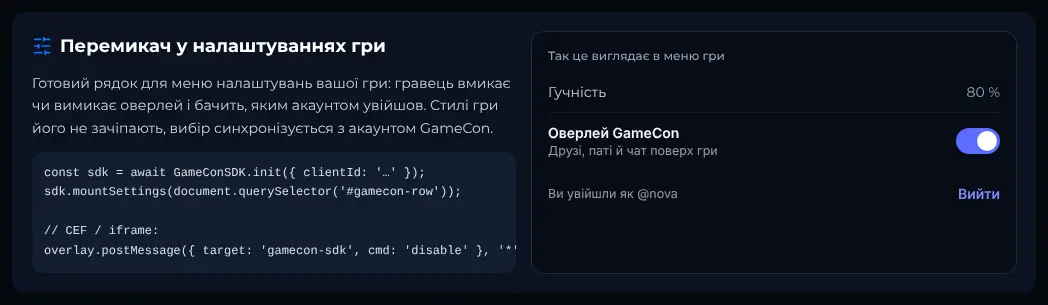
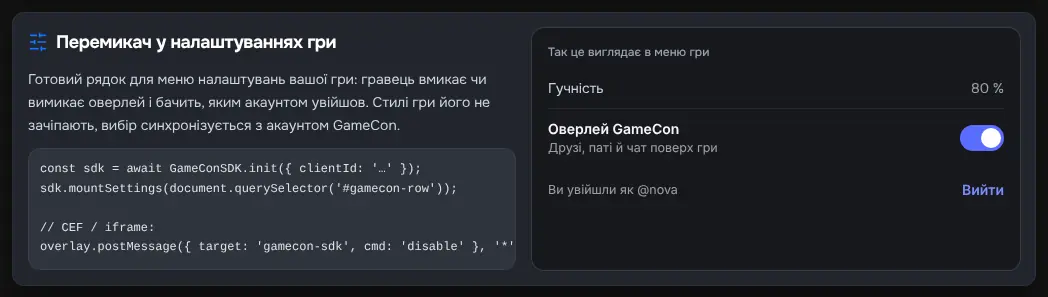
ПК: дзвінки в повідомленнях — голос, відео, демонстрація екрана (LiveKit), вхідний дзвінок у відкритому чаті «Прийняти / Відхилити»; довідка: ще 4 кадри, зйомка з довшими очікуваннями
Claude-Session: https://claude.ai/code/session_01HanRrFN25zmwZ8V14mpsTd

diff --git a/pc/src/renderer/src/components/DirectCall.tsx b/pc/src/renderer/src/components/DirectCall.tsx
@@ -1,0 +1,196 @@
+import { Mic, MicOff, MonitorUp, Phone, PhoneOff, Video, VideoOff } from 'lucide-react';
+import { type Participant, Room, RoomEvent, Track, type RemoteTrack } from 'livekit-client';
+import { useCallback, useEffect, useRef, useState } from 'react';
+import { useToast } from '@/components/kit';
+import { Avatar } from '@/components/ui';
+import { api, type User } from '@/lib/api';
+
+export type CallState = { id: number; status: string; started_by: number; caller: User | null; joined?: User[]; invited?: number[] } | null;
+
+const uid = (p: Participant): number => Number(p.identity.replace(/^u/, '')) || 0;
+
+/** Стан дзвінка в бесіді: опитує сервер, щоб показати вхідний дзвінок у відкритому чаті. */
+export function useConversationCall(conversationId: number): { call: CallState; refresh: () => Promise<void> } {
+    const [call, setCall] = useState<CallState>(null);
+    const refresh = useCallback(async () => {
+        const r = await api<{ call: CallState }>('GET', `/api/v1/messages/${conversationId}/call`).catch(() => null);
+        if (r) setCall(r.call);
+    }, [conversationId]);
+    useEffect(() => {
+        void refresh();
+        const t = window.setInterval(() => void refresh(), 4000);
+        return () => window.clearInterval(t);
+    }, [refresh]);
+    return { call, refresh };
+}
+
+/**
+ * Дзвінок 1:1 чи груповий у бесіді (LiveKit): голос, камера, демонстрація екрана, хто говорить.
+ * mode «start» — почати (або приєднатися до вже живого), «join» — прийняти вхідний.
+ */
+export function DirectCall({
+    conversationId,
+    callId,
+    title,
+    peer,
+    mode,
+    video = false,
+    onEnd,
+}: {
+    conversationId: number;
+    callId?: number;
+    title: string;
+    peer?: User | null;
+    mode: 'start' | 'join';
+    video?: boolean;
+    onEnd: () => void;
+}) {
+    const toast = useToast();
+    const room = useRef<Room | null>(null);
+    const media = useRef<HTMLDivElement>(null);
+    const [status, setStatus] = useState<'connecting' | 'live'>('connecting');
+    const [joinedCall, setJoinedCall] = useState<number | null>(callId ?? null);
+    const [mic, setMic] = useState(true);
+    const [cam, setCam] = useState(false);
+    const [screen, setScreen] = useState(false);
+    const [speaking, setSpeaking] = useState<number[]>([]);
+    const [others, setOthers] = useState(0);
+    const [videos, setVideos] = useState(0);
+    const [started, setStarted] = useState<number | null>(null);
+    const [, tick] = useState(0);
+
+    useEffect(() => {
+        let alive = true;
+        const r = new Room({ adaptiveStream: true, dynacast: true });
+        room.current = r;
+        const count = (): void => setOthers(r.remoteParticipants.size);
+        r.on(RoomEvent.ParticipantConnected, () => {
+            count();
+            setStarted((s) => s ?? Date.now());
+        });
+        r.on(RoomEvent.ParticipantDisconnected, count);
+        r.on(RoomEvent.ActiveSpeakersChanged, (ps: Participant[]) => setSpeaking(ps.map(uid)));
+        r.on(RoomEvent.TrackSubscribed, (track: RemoteTrack) => {
+            const el = track.attach();
+            if (track.kind === Track.Kind.Video) {
+                el.className = 'h-full w-full rounded-2xl bg-black object-contain';
+                setVideos((v) => v + 1);
+            } else el.className = 'hidden';
+            media.current?.appendChild(el);
+        });
+        r.on(RoomEvent.TrackUnsubscribed, (track: RemoteTrack) => {
+            track.detach().forEach((el) => el.remove());
+            if (track.kind === Track.Kind.Video) setVideos((v) => Math.max(0, v - 1));
+        });
+        void (async () => {
+            try {
+                const access =
+                    mode === 'join' && callId
+                        ? await api<{ url: string; token: string; call: { id: number } }>('POST', `/api/v1/calls/${callId}/join`)
+                        : await api<{ url: string; token: string; call: { id: number } }>('POST', `/api/v1/messages/${conversationId}/call`);
+                if (!alive) return;
+                setJoinedCall(access.call.id);
+                await r.connect(access.url, access.token, { autoSubscribe: true });
+                await r.localParticipant.setMicrophoneEnabled(true).catch(() => setMic(false));
+                if (video)
+                    await r.localParticipant.setCameraEnabled(true).then(
+                        () => setCam(true),
+                        () => undefined,
+                    );
+                setStatus('live');
+                count();
+                if (r.remoteParticipants.size > 0) setStarted(Date.now());
+            } catch (e) {
+                if (alive) {
+                    toast((e as Error).message, 'error');
+                    onEnd();
+                }
+            }
+        })();
+        const t = window.setInterval(() => tick((x) => x + 1), 1000);
+        return () => {
+            alive = false;
+            window.clearInterval(t);
+            void r.disconnect();
+        };
+        // eslint-disable-next-line react-hooks/exhaustive-deps
+    }, []);
+
+    const hangup = async (): Promise<void> => {
+        await room.current?.disconnect();
+        if (joinedCall) await api('POST', `/api/v1/calls/${joinedCall}/leave`).catch(() => undefined);
+        onEnd();
+    };
+    const toggle = async (kind: 'mic' | 'cam' | 'screen'): Promise<void> => {
+        const lp = room.current?.localParticipant;
+        if (!lp) return;
+        try {
+            if (kind === 'mic') {
+                await lp.setMicrophoneEnabled(!mic);
+                setMic(!mic);
+            } else if (kind === 'cam') {
+                await lp.setCameraEnabled(!cam);
+                setCam(!cam);
+            } else {
+                await lp.setScreenShareEnabled(!screen, { audio: true });
+                setScreen(!screen);
+            }
+        } catch (e) {
+            toast((e as Error).message, 'error');
+        }
+    };
+    const secs = started ? Math.floor((Date.now() - started) / 1000) : 0;
+    const clock = `${Math.floor(secs / 60)}:${String(secs % 60).padStart(2, '0')}`;
+    const btn = (on: boolean, danger = false): string =>
+        `grid size-12 place-items-center rounded-full transition ${danger ? 'bg-rose-500 hover:bg-rose-400' : on ? 'bg-white/15 hover:bg-white/25' : 'bg-white/5 text-white/50 ring-1 ring-white/15 hover:bg-white/10'}`;
+    return (
+        <div className="absolute inset-0 z-30 flex flex-col bg-[#0b0e16]/95 backdrop-blur-xl">
+            <div className="relative min-h-0 flex-1 p-4">
+                <div ref={media} className={`grid h-full gap-3 ${videos > 1 ? 'grid-cols-2' : 'grid-cols-1'} ${videos ? '' : 'hidden'}`} />
+                {!videos && (
+                    <div className="grid h-full place-items-center text-center">
+                        <div>
+                            <div className={`mx-auto w-fit rounded-full p-1.5 transition ${peer && speaking.includes(peer.id) ? 'ring-4 ring-emerald-400/70' : 'ring-2 ring-white/10'}`}>
+                                <Avatar user={peer ?? { name: title }} size={112} />
+                            </div>
+                            <p className="mt-4 text-2xl font-bold">{title}</p>
+                            <p className="mt-1 text-sm text-white/55">{status === 'connecting' ? 'Підключаємося…' : others === 0 ? 'Дзвонимо…' : clock}</p>
+                        </div>
+                    </div>
+                )}
+            </div>
+            <div className="flex items-center justify-center gap-3 pb-6">
+                <button type="button" title={mic ? 'Вимкнути мікрофон' : 'Увімкнути мікрофон'} onClick={() => void toggle('mic')} className={btn(mic)}>
+                    {mic ? <Mic size={20} /> : <MicOff size={20} />}
+                </button>
+                <button type="button" title={cam ? 'Вимкнути камеру' : 'Увімкнути камеру'} onClick={() => void toggle('cam')} className={btn(cam)}>
+                    {cam ? <Video size={20} /> : <VideoOff size={20} />}
+                </button>
+                <button type="button" title="Показати екран" onClick={() => void toggle('screen')} className={btn(screen)}>
+                    <MonitorUp size={20} />
+                </button>
+                <button type="button" title="Завершити" onClick={() => void hangup()} className={btn(true, true)}>
+                    <PhoneOff size={20} />
+                </button>
+            </div>
+        </div>
+    );
+}
+
+/** Смуга вхідного дзвінка над чатом: «Прийняти» / «Відхилити». */
+export function IncomingCall({ call, onAccept, onDecline }: { call: NonNullable<CallState>; onAccept: () => void; onDecline: () => void }) {
+    return (
+        <div className="flex items-center gap-3 border-b border-emerald-400/20 bg-emerald-400/10 px-4 py-2.5">
+            {call.caller && <Avatar user={call.caller} size={32} />}
+            <span className="flex-1 text-sm">
+                <b>{call.caller?.name ?? 'Хтось'}</b> дзвонить…
+            </span>
+            <button type="button" onClick={onAccept} className="flex h-9 items-center gap-1.5 rounded-xl bg-emerald-500 px-3 text-sm font-semibold hover:bg-emerald-400">
+                <Phone size={15} /> Прийняти
+            </button>
+            <button type="button" onClick={onDecline} className="flex h-9 items-center gap-1.5 rounded-xl bg-rose-500/80 px-3 text-sm font-semibold hover:bg-rose-500">
+                <PhoneOff size={15} /> Відхилити
+            </button>
+        </div>
+    );
+}

diff --git a/pc/src/renderer/src/pages/messages/MessagesPage.tsx b/pc/src/renderer/src/pages/messages/MessagesPage.tsx
@@ -1,6 +1,7 @@
-import { BellOff, Check, CornerUpLeft, Download, FileText, ImagePlus, MessageSquarePlus, Pencil, Pin, Search, SendHorizontal, Smile, Sticker, Trash2, X } from 'lucide-react';
+import { BellOff, Check, Phone, Video, CornerUpLeft, Download, FileText, ImagePlus, MessageSquarePlus, Pencil, Pin, Search, SendHorizontal, Smile, Sticker, Trash2, X } from 'lucide-react';
 import { type DragEvent, type KeyboardEvent, useCallback, useEffect, useMemo, useRef, useState } from 'react';
 import { Button, Input, Loading, Modal, PageHeader, SmartImage, downloadFile, useToast, when } from '@/components/kit';
+import { DirectCall, IncomingCall, useConversationCall } from '@/components/DirectCall';
 import { Avatar } from '@/components/ui';
 import { api, type User } from '@/lib/api';
 import { useMe } from '@/lib/me';
@@ -123,6 +124,8 @@ function Chat({ id, onChanged }: { id: number; onChanged: () => Promise<void> })
     const [sending, setSending] = useState(false);
     const scroller = useRef<HTMLDivElement>(null);
     const stick = useRef(true);
+    const { call, refresh: refreshCall } = useConversationCall(id);
+    const [inCall, setInCall] = useState<{ mode: 'start' | 'join'; callId?: number; video?: boolean } | null>(null);
 
     const load = useCallback(async () => {
         try {
@@ -252,17 +255,39 @@ function Chat({ id, onChanged }: { id: number; onChanged: () => Promise<void> })
     if (!detail) return <Loading />;
     const c = detail.conversation;
     return (
-        <div className="flex h-full flex-col" onDragOver={(e) => e.preventDefault()} onDrop={drop}>
+        <div className="relative flex h-full flex-col" onDragOver={(e) => e.preventDefault()} onDrop={drop}>
             <header className="flex items-center gap-3 border-b border-white/5 px-4 py-3">
                 <Avatar user={{ name: c.title, avatar_url: c.avatar_url ?? c.peer?.avatar_url }} size={40} dot={c.peer?.is_online ? 'online' : null} />
                 <div className="min-w-0 flex-1">
                     <div className="truncate font-semibold">{c.title}</div>
                     <div className="truncate text-xs text-white/45">{c.peer ? (c.peer.is_online ? 'у мережі' : 'не в мережі') : `${c.members_count} учасників`}</div>
                 </div>
+                {call && !inCall && !call.invited?.includes(me?.id ?? -1) ? (
+                    <Button small tone="primary" onClick={() => setInCall({ mode: 'join', callId: call.id })}>
+                        <Phone size={14} /> Приєднатися до дзвінка
+                    </Button>
+                ) : (
+                    <>
+                        <Button small onClick={() => setInCall({ mode: 'start' })}>
+                            <Phone size={14} /> Дзвінок
+                        </Button>
+                        <Button small onClick={() => setInCall({ mode: 'start', video: true })}>
+                            <Video size={14} />
+                        </Button>
+                    </>
+                )}
                 <Button small onClick={() => void mute()}>
                     <BellOff size={14} /> {c.is_muted ? 'Увімкнути сповіщення' : 'Без звуку'}
                 </Button>
             </header>
+            {call && !inCall && call.invited?.includes(me?.id ?? -1) && (
+                <IncomingCall
+                    call={call}
+                    onAccept={() => setInCall({ mode: 'join', callId: call.id })}
+                    onDecline={() => void api('POST', `/api/v1/calls/${call.id}/decline`).then(refreshCall, () => undefined)}
+                />
+            )}
+            {inCall && <DirectCall conversationId={id} callId={inCall.callId} mode={inCall.mode} video={inCall.video} title={c.title} peer={c.peer} onEnd={() => (setInCall(null), void refreshCall(), void load())} />}
             {c.pins.length > 0 && (
                 <div className="flex items-center gap-2 border-b border-white/5 bg-neon-violet/[0.06] px-4 py-2 text-sm">
                     <Pin size={14} className="text-neon-violet" />

diff --git a/resources/js/components/help/help-shots.ts b/resources/js/components/help/help-shots.ts
@@ -268,13 +268,13 @@ const HELP_SHOTS: Record<string, HelpShotMeta> = {
         phone: false,
         regions: {
             type: {
-                x: 33.1,
+                x: 23.3,
                 y: 17.8,
                 w: 53.3,
                 h: 17.2,
             },
             access: {
-                x: 33.3,
+                x: 23.6,
                 y: 17.8,
                 w: 52.8,
                 h: 2.5,
@@ -562,26 +562,26 @@ const HELP_SHOTS: Record<string, HelpShotMeta> = {
     'dev-sdk-settings': {
         src: '/images/help/dev-sdk-settings.webp',
         w: 1048,
-        h: 306,
+        h: 298,
         phone: false,
         regions: {
             code: {
-                x: 3.1,
+                x: 2.7,
                 y: 49.8,
-                w: 46.2,
-                h: 39.7,
+                w: 46.6,
+                h: 40.8,
             },
             toggle: {
                 x: 52.3,
-                y: 37,
-                w: 43.1,
-                h: 18.7,
+                y: 36.6,
+                w: 43.5,
+                h: 19.2,
             },
             account: {
                 x: 52.3,
-                y: 55.6,
-                w: 43.1,
-                h: 15.6,
+                y: 55.8,
+                w: 43.5,
+                h: 16,
             },
         },
     },
@@ -1104,23 +1104,10 @@ const HELP_SHOTS: Record<string, HelpShotMeta> = {
     },
     'listen-together': {
         src: '/images/help/listen-together.webp',
-        w: 344,
-        h: 594,
+        w: 364,
+        h: 189,
         phone: false,
-        regions: {
-            track: {
-                x: 22.1,
-                y: 12.8,
-                w: 58.1,
-                h: 2.7,
-            },
-            join: {
-                x: 83.7,
-                y: 9.8,
-                w: 9.3,
-                h: 5.4,
-            },
-        },
+        regions: {},
     },
     login: {
         src: '/images/help/login.webp',
@@ -1877,14 +1864,14 @@ const HELP_SHOTS: Record<string, HelpShotMeta> = {
         phone: false,
         regions: {
             now: {
-                x: 38.3,
-                y: 12.4,
-                w: 33.6,
+                x: 28.1,
+                y: 10.2,
+                w: 9.3,
                 h: 3.6,
             },
             history: {
-                x: 33.1,
-                y: 73.3,
+                x: 23.3,
+                y: 47.6,
                 w: 53.3,
                 h: 2.2,
             },

diff --git a/pc/src/main/index.ts b/pc/src/main/index.ts
@@ -1,6 +1,6 @@
 import { spawn } from 'node:child_process';
 import { basename, dirname, join } from 'node:path';
-import { app, BrowserWindow, globalShortcut, ipcMain, Menu, nativeImage, session as session_, Tray } from 'electron';
+import { app, BrowserWindow, desktopCapturer, globalShortcut, ipcMain, Menu, nativeImage, session as session_, Tray } from 'electron';
 import { loadCore } from './native';
 import { Session } from './session';
 import { registerStudio } from './studio';
@@ -178,6 +178,13 @@ app.on('second-instance', () => windows?.setMode('unified'));
 app.whenReady().then(() => {
     if (squirrel) return;
     // Плеєри кіно (Kodik, Videoseed…) перевіряють, з якого сайту їх вбудовано: для них програма — це GameCon.
+    // Демонстрація екрана в дзвінках (getDisplayMedia): весь основний екран зі звуком системи.
+    session_.defaultSession.setDisplayMediaRequestHandler((_req, done) => {
+        void desktopCapturer.getSources({ types: ['screen'] }).then(
+            (sources) => done(sources[0] ? { video: sources[0], audio: process.platform === 'win32' ? 'loopback' : undefined } : {}),
+            () => done({}),
+        );
+    });
     session_.defaultSession.webRequest.onBeforeSendHeaders({ urls: ['https://*/*'] }, (details, done) => {
         if (details.resourceType === 'subFrame' && !details.requestHeaders.Referer) details.requestHeaders.Referer = 'https://gamecon.online/';
         done({ requestHeaders: details.requestHeaders });
